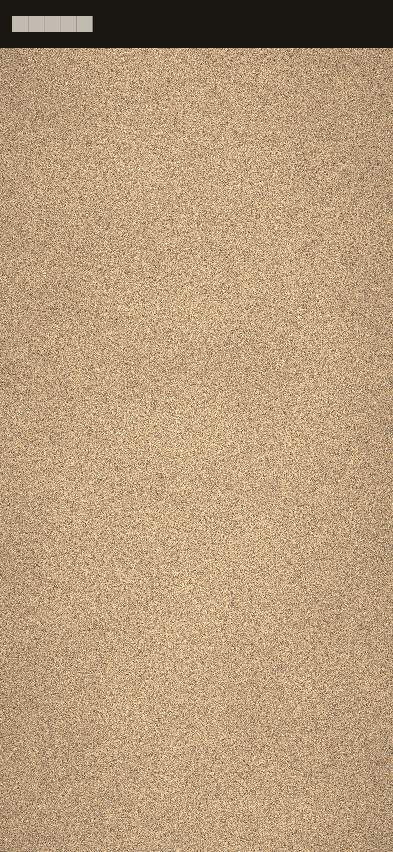
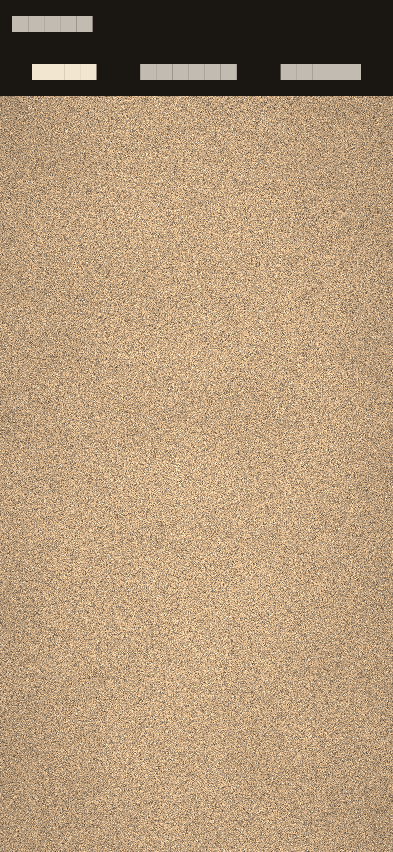
feat(zen): add rake, smooth, and reset to free play
Free play from the home menu is a solo garden. The three tools sit on that screen only, with no race clock or opponent.

diff --git a/lib/features/zen/carve_screen.dart b/lib/features/zen/carve_screen.dart
@@ -3,10 +3,18 @@ import 'package:flutter/material.dart';
 import '../../theme/palette.dart';
 import 'sand_stage.dart';
 
-class CarveScreen extends StatelessWidget {
+class CarveScreen extends StatefulWidget {
   const CarveScreen({super.key, required this.onLeave});
 
   final VoidCallback onLeave;
+
+  @override
+  State<CarveScreen> createState() => _CarveScreenState();
+}
+
+class _CarveScreenState extends State<CarveScreen> {
+  final _stage = GlobalKey<SandStageState>();
+  var _rake = false;
 
   @override
   Widget build(BuildContext context) {
@@ -18,14 +26,51 @@ class CarveScreen extends StatelessWidget {
             Align(
               alignment: Alignment.centerLeft,
               child: TextButton(
-                onPressed: onLeave,
+                onPressed: widget.onLeave,
                 child: const Text(
                   'Leave',
                   style: TextStyle(color: Palette.dust, fontSize: 16),
                 ),
               ),
             ),
-            const Expanded(child: SandStage()),
+            Row(
+              mainAxisAlignment: MainAxisAlignment.spaceEvenly,
+              children: [
+                TextButton(
+                  key: const ValueKey('garden-rake'),
+                  onPressed: () {
+                    final next = !_rake;
+                    setState(() => _rake = next);
+                    _stage.currentState?.setRake(next);
+                  },
+                  style: TextButton.styleFrom(
+                    foregroundColor: Palette.ink,
+                    backgroundColor: _rake ? Palette.rust : null,
+                  ),
+                  child: const Text(
+                    'Rake',
+                    style: TextStyle(fontSize: 16),
+                  ),
+                ),
+                TextButton(
+                  key: const ValueKey('garden-smooth'),
+                  onPressed: () => _stage.currentState?.smooth(),
+                  child: const Text(
+                    'Smooth',
+                    style: TextStyle(color: Palette.dust, fontSize: 16),
+                  ),
+                ),
+                TextButton(
+                  key: const ValueKey('garden-reset'),
+                  onPressed: () => _stage.currentState?.resetGarden(),
+                  child: const Text(
+                    'Reset',
+                    style: TextStyle(color: Palette.dust, fontSize: 16),
+                  ),
+                ),
+              ],
+            ),
+            Expanded(child: SandStage(key: _stage)),
           ],
         ),
       ),

diff --git a/lib/render/sand_bed.dart b/lib/render/sand_bed.dart
@@ -71,6 +71,7 @@ class SandBed {
   List<SandSample> _shown = const [];
 
   int? _activePointer;
+  bool rake = false;
 
   bool get stroking => _activePointer != null;
 
@@ -139,6 +140,39 @@ class SandBed {
     generation += 1;
   }
 
+  void smoothGarden() {
+    final a = Float32List.fromList(height);
+    final b = Float32List(height.length);
+    var src = a;
+    var dst = b;
+    for (var pass = 0; pass < 12; pass++) {
+      dst.setRange(0, dst.length, src);
+      for (var y = 1; y < rows - 1; y++) {
+        var i = y * cols + 1;
+        for (var x = 1; x < cols - 1; x++, i++) {
+          dst[i] = (src[i] + src[i - 1] + src[i + 1] + src[i - cols] + src[i + cols]) / 5;
+        }
+      }
+      final swap = src;
+      src = dst;
+      dst = swap;
+    }
+    height.setAll(0, src);
+    _dirty = null;
+    generation += 1;
+  }
+
+  void resetGarden() {
+    height.setAll(0, fresh);
+    _strokes.clear();
+    _activePointer = null;
+    _shown = const [];
+    _closedLen = 0;
+    _closedPeak = 0;
+    _dirty = null;
+    generation += 1;
+  }
+
   Uint8List encodeHeight() {
     final n = cols * rows;
     final out = Uint8List(n * 4);
@@ -200,6 +234,20 @@ class SandBed {
   }
 
   void _carveFinger(_Stroke stroke, double ax, double ay, double bx, double by) {
+    _carveGroove(stroke, ax, ay, bx, by);
+    if (!rake) return;
+    final dx = bx - ax;
+    final dy = by - ay;
+    final len = math.sqrt(dx * dx + dy * dy);
+    if (len < 1e-6) return;
+    const gap = 16.0;
+    final ox = -dy / len * gap;
+    final oy = dx / len * gap;
+    _carveGroove(stroke, ax + ox, ay + oy, bx + ox, by + oy);
+    _carveGroove(stroke, ax - ox, ay - oy, bx - ox, by - oy);
+  }
+
+  void _carveGroove(_Stroke stroke, double ax, double ay, double bx, double by) {
     final c = cellsPerPt;
     final s = _speed01(stroke.speed);
     final r = SandLook.fingerRadius * c * (1 + SandLook.widthGain * s);

diff --git a/test/sand_bed_test.dart b/test/sand_bed_test.dart
@@ -74,6 +74,41 @@ void main() {
     expect(slow, lessThan(fast - 0.3));
   });
 
+  test('reset puts the fresh garden back', () {
+    final bed = SandBed.fit(120, 180, simScale: 1);
+    play(bed, line(60, 140, 0, 80, 400, 16));
+    final i = 100 * bed.cols + 60;
+    expect(bed.at(60, 100), lessThan(bed.fresh[i] - 0.2));
+    bed.resetGarden();
+    expect(bed.at(60, 100), closeTo(bed.fresh[i], 1e-6));
+    expect(bed.samples, isEmpty);
+  });
+
+  test('smooth raises a trench', () {
+    final bed = SandBed.fit(80, 160, simScale: 1);
+    play(bed, line(40, 130, 0, 80, 600, 20));
+    final cells = _carved(bed, 0.45);
+    expect(cells, isNotEmpty);
+    final before = [for (final cell in cells) bed.at(cell.x, cell.y)];
+    bed.smoothGarden();
+    var rose = 0.0;
+    for (var i = 0; i < cells.length; i++) {
+      rose += bed.at(cells[i].x, cells[i].y) - before[i];
+    }
+    expect(rose / cells.length, greaterThan(0.05));
+  });
+
+  test('a rake cuts wider than a finger', () {
+    final finger = SandBed.fit(180, 80, simScale: 1);
+    final rake = SandBed.fit(180, 80, simScale: 1)..rake = true;
+    final stroke = line(20, 40, 90, 140, 500, 24);
+    play(finger, stroke);
+    play(rake, stroke);
+    final fingerSpan = _spanY(_carved(finger, 0.4));
+    final rakeSpan = _spanY(_carved(rake, 0.4));
+    expect(rakeSpan, greaterThan(fingerSpan + 16));
+  });
+
   test('slump keeps the sand it moves', () {
     final bed = SandBed.fit(48, 48, simScale: 1);
     final before = bed.height.fold<double>(0, (sum, value) => sum + value);
@@ -168,6 +203,11 @@ List<({int x, int y})> _carved(SandBed bed, double belowFresh) {
     }
   }
   return found;
+}
+
+int _spanY(List<({int x, int y})> cells) {
+  final ys = cells.map((cell) => cell.y);
+  return ys.reduce(math.max) - ys.reduce(math.min);
 }
 
 double _distanceToSegment(double px, double py, double ax, double ay, double bx, double by) {

diff --git a/test/widget_test.dart b/test/widget_test.dart
@@ -80,14 +80,21 @@ void main() {
     debugDefaultTargetPlatformOverride = null;
   });
 
-  testWidgets('free play shows the sand bed and no pile mass', (tester) async {
+  testWidgets('free play offers the garden tools and no race', (tester) async {
     SharedPreferences.setMockInitialValues({});
     await tester.pumpWidget(const SandfightApp(machine: 'iPhone13,2'));
     await tester.pump();
     await tester.tap(find.byKey(const ValueKey('free-play')));
     await tester.pump();
     expect(find.byType(SandField), findsOneWidget);
+    expect(find.byKey(const ValueKey('garden-rake')), findsOneWidget);
+    expect(find.byKey(const ValueKey('garden-smooth')), findsOneWidget);
+    expect(find.byKey(const ValueKey('garden-reset')), findsOneWidget);
+    expect(find.text('circle'), findsNothing);
+    expect(find.text('Ahead'), findsNothing);
+    expect(find.textContaining(RegExp(r'\d+\.\d+s')), findsNothing);
     expect(find.byKey(const Key('my-mass')), findsNothing);
+    expect(find.byKey(const Key('their-mass')), findsNothing);
   });
 
   testWidgets('a solo draw race names the glyph and hides pile mass', (tester) async {
@@ -98,6 +105,7 @@ void main() {
     await tester.pump();
     await tester.pump();
     expect(find.text('circle'), findsOneWidget);
+    expect(find.byKey(const ValueKey('garden-rake')), findsNothing);
     expect(find.byKey(const Key('my-mass')), findsNothing);
   });
 

diff --git a/lib/features/zen/sand_stage.dart b/lib/features/zen/sand_stage.dart
@@ -13,10 +13,30 @@ class SandStage extends StatefulWidget {
   final void Function(List<DrawPoint> points)? onStroke;
 
   @override
-  State<SandStage> createState() => _SandStageState();
+  State<SandStage> createState() => SandStageState();
 }
 
-class _SandStageState extends State<SandStage> {
+class SandStageState extends State<SandStage> {
+  void setRake(bool value) {
+    _bed?.rake = value;
+  }
+
+  void smooth() {
+    final bed = _bed;
+    if (bed == null) return;
+    bed.smoothGarden();
+    setState(() {});
+    _upload();
+  }
+
+  void resetGarden() {
+    final bed = _bed;
+    if (bed == null) return;
+    bed.resetGarden();
+    setState(() {});
+    _upload();
+  }
+
   SandBed? _bed;
   ui.FragmentProgram? _program;
   ui.FragmentShader? _shader;
